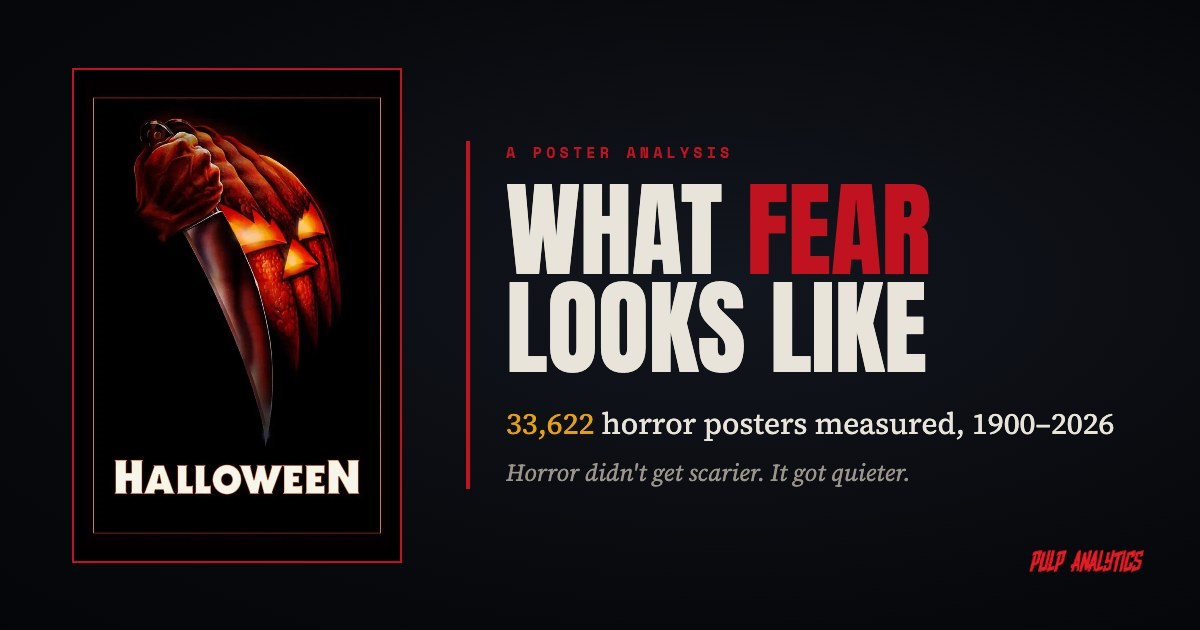
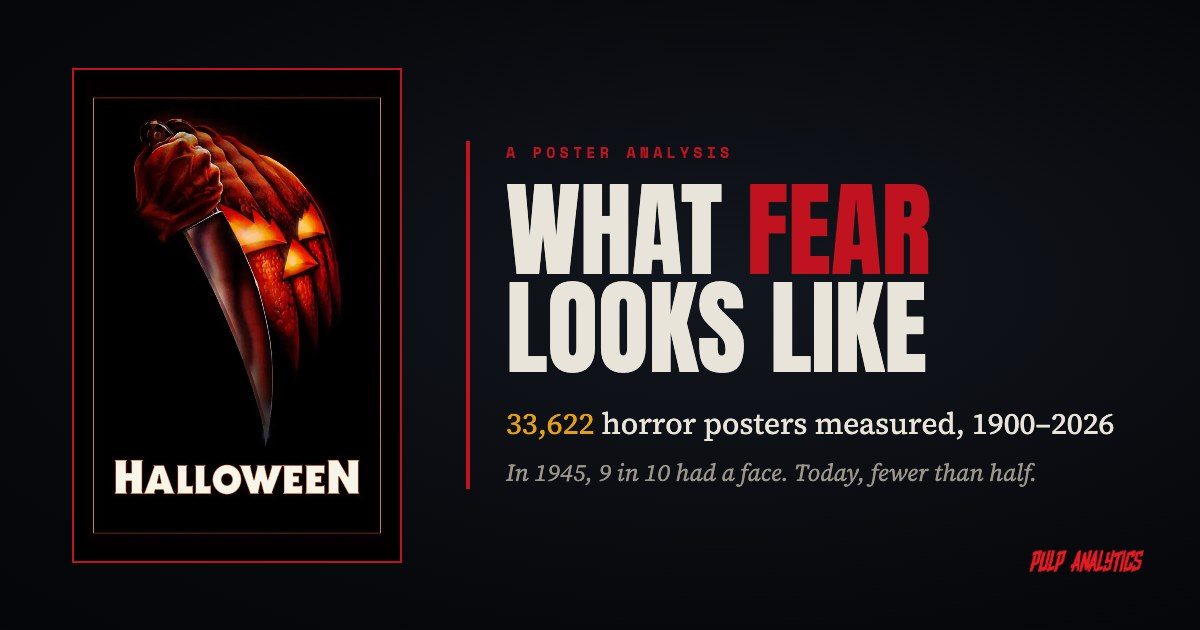
Share copy built on a concrete finding: where did the faces go?
Title, description and card line in both languages now lead with what a
reader can see on the sheet instead of abstract "quieter/silenced" images:
around 1945, 9 in 10 horror posters showed a face; today fewer than half
(FACE_PTS, 5-year trailing mean: 90.7% -> 45.7%). Wording checked against
the Pulp Analytics voice (pulp-voice) and made-to-stick's Concrete principle.

Changed region(s): [[0.4317, 0.7238, 0.8633, 0.7841]]

diff --git a/site/index.html b/site/index.html
@@ -4,7 +4,7 @@
 <meta charset="UTF-8">
 <meta name="viewport" content="width=device-width, initial-scale=1.0">
 <title>What Fear Looks Like — Pulp Analytics</title>
-<meta name="description" content="Horror didn't get scarier. It got quieter. A data analysis of 33,622 horror movie posters (1900–2026): color, darkness, faces, creatures.">
+<meta name="description" content="I measured 33,622 horror posters, 1900 to 2026. Faces became scarce. Black took over the sheet. Ornate titles shrank to one thin word. Open the autopsy and check the evidence.">
 <meta name="theme-color" content="#0a0a0c">
 <meta name="aof-build" content="20260827b">
 <link rel="icon" type="image/png" href="assets/pa-mark.png">
@@ -18,14 +18,14 @@
 <link rel="alternate" hreflang="es" href="https://juanpduque.github.io/what-fear-looks-like/es/">
 <link rel="alternate" hreflang="x-default" href="https://juanpduque.github.io/what-fear-looks-like/">
 <meta property="og:url" content="https://juanpduque.github.io/what-fear-looks-like/">
-<meta property="og:title" content="What Fear Looks Like: 33,622 horror posters, measured">
-<meta property="og:description" content="Horror didn't get scarier. It got quieter. A century of poster data from Pulp Analytics — darkness, faces, blood, and the shout that became a whisper.">
+<meta property="og:title" content="Where did the faces go? I measured 33,622 horror posters.">
+<meta property="og:description" content="I measured 33,622 horror posters, 1900 to 2026. Faces became scarce. Black took over the sheet. Ornate titles shrank to one thin word. Open the autopsy and check the evidence.">
 <meta property="og:image" content="https://juanpduque.github.io/what-fear-looks-like/assets/og-card.jpg">
 <meta property="og:image:width" content="1200">
 <meta property="og:image:height" content="630">
 <meta name="twitter:card" content="summary_large_image">
-<meta name="twitter:title" content="What Fear Looks Like: 33,622 horror posters, measured">
-<meta name="twitter:description" content="Horror didn't get scarier. It got quieter. A century of poster data from Pulp Analytics — darkness, faces, blood, and the shout that became a whisper.">
+<meta name="twitter:title" content="Where did the faces go? I measured 33,622 horror posters.">
+<meta name="twitter:description" content="I measured 33,622 horror posters, 1900 to 2026. Faces became scarce. Black took over the sheet. Ornate titles shrank to one thin word. Open the autopsy and check the evidence.">
 <meta name="twitter:image" content="https://juanpduque.github.io/what-fear-looks-like/assets/og-card.jpg">
 <link rel="preconnect" href="https://fonts.googleapis.com">
 <link rel="preconnect" href="https://fonts.gstatic.com" crossorigin>

diff --git a/site/es/index.html b/site/es/index.html
@@ -10,7 +10,7 @@
   some crawlers follow it and would read the English tags instead.
 -->
 <title>Cómo se ve el miedo — Pulp Analytics</title>
-<meta name="description" content="¿Cuándo dejó el terror de gritar? Medí color, oscuridad, rostros y criaturas en 33,622 afiches de terror, de 1900 a 2026.">
+<meta name="description" content="Medí 33,622 afiches de terror, de 1900 a 2026. Las caras se volvieron escasas. El negro se tomó la hoja. Los títulos ornamentados quedaron en una sola palabra delgada. Abre la autopsia y revisa la evidencia.">
 <meta name="theme-color" content="#0a0a0c">
 <link rel="icon" type="image/png" href="../assets/pa-mark.png">
 <link rel="canonical" href="https://juanpduque.github.io/what-fear-looks-like/es/">
@@ -22,14 +22,14 @@
 <meta property="og:locale" content="es_ES">
 <meta property="og:locale:alternate" content="en_US">
 <meta property="og:url" content="https://juanpduque.github.io/what-fear-looks-like/es/">
-<meta property="og:title" content="Cómo se ve el miedo: medí 33,622 afiches de terror">
-<meta property="og:description" content="¿Cuándo dejó el terror de gritar? Medí color, oscuridad, rostros y criaturas en 33,622 afiches, de 1900 a 2026. Los afiches no mienten.">
+<meta property="og:title" content="¿Dónde quedaron las caras? Medí 33,622 afiches de terror.">
+<meta property="og:description" content="Medí 33,622 afiches de terror, de 1900 a 2026. Las caras se volvieron escasas. El negro se tomó la hoja. Los títulos ornamentados quedaron en una sola palabra delgada. Abre la autopsia y revisa la evidencia.">
 <meta property="og:image" content="https://juanpduque.github.io/what-fear-looks-like/assets/og-card-es.jpg">
 <meta property="og:image:width" content="1200">
 <meta property="og:image:height" content="630">
 <meta name="twitter:card" content="summary_large_image">
-<meta name="twitter:title" content="Cómo se ve el miedo: medí 33,622 afiches de terror">
-<meta name="twitter:description" content="¿Cuándo dejó el terror de gritar? Medí color, oscuridad, rostros y criaturas en 33,622 afiches, de 1900 a 2026. Los afiches no mienten.">
+<meta name="twitter:title" content="¿Dónde quedaron las caras? Medí 33,622 afiches de terror.">
+<meta name="twitter:description" content="Medí 33,622 afiches de terror, de 1900 a 2026. Las caras se volvieron escasas. El negro se tomó la hoja. Los títulos ornamentados quedaron en una sola palabra delgada. Abre la autopsia y revisa la evidencia.">
 <meta name="twitter:image" content="https://juanpduque.github.io/what-fear-looks-like/assets/og-card-es.jpg">
 <script>
   (function () {

diff --git a/scripts/make_og_card.py b/scripts/make_og_card.py
@@ -30,14 +30,14 @@ CARDS = {
         "A poster analysis",
         'What <span class="fear">Fear</span><br>Looks Like',
         "<b>{n}</b> horror posters measured, {y0}–{y1}",
-        "Horror didn't get scarier. It got quieter.",
+        "In 1945, 9 in 10 had a face. Today, fewer than half.",
     ),
     "es": (
         "og-card-es.jpg",
         "Un análisis de afiches",
         'Cómo se ve<br>el <span class="fear">miedo</span>',
         "<b>{n}</b> afiches de terror, de {y0} a {y1}",
-        "El terror bajó la voz.",
+        "En 1945, 9 de cada 10 tenían cara. Hoy, menos de la mitad.",
     ),
 }
 LOGO = SITE / "assets" / "pulp-analytics-red.png"
